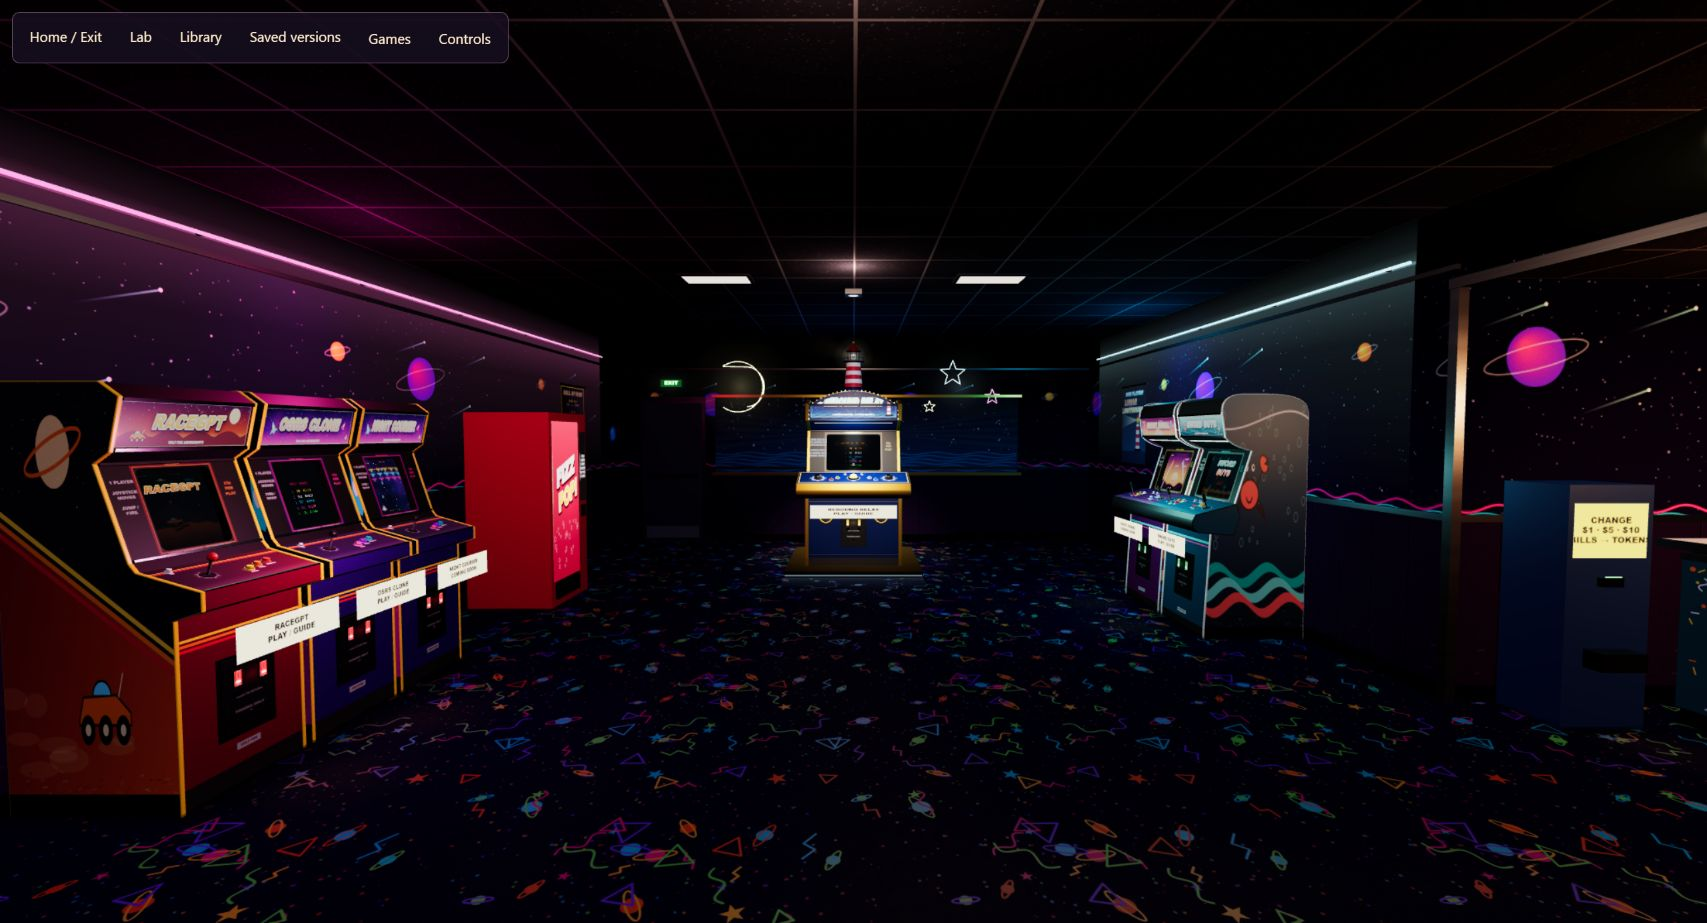
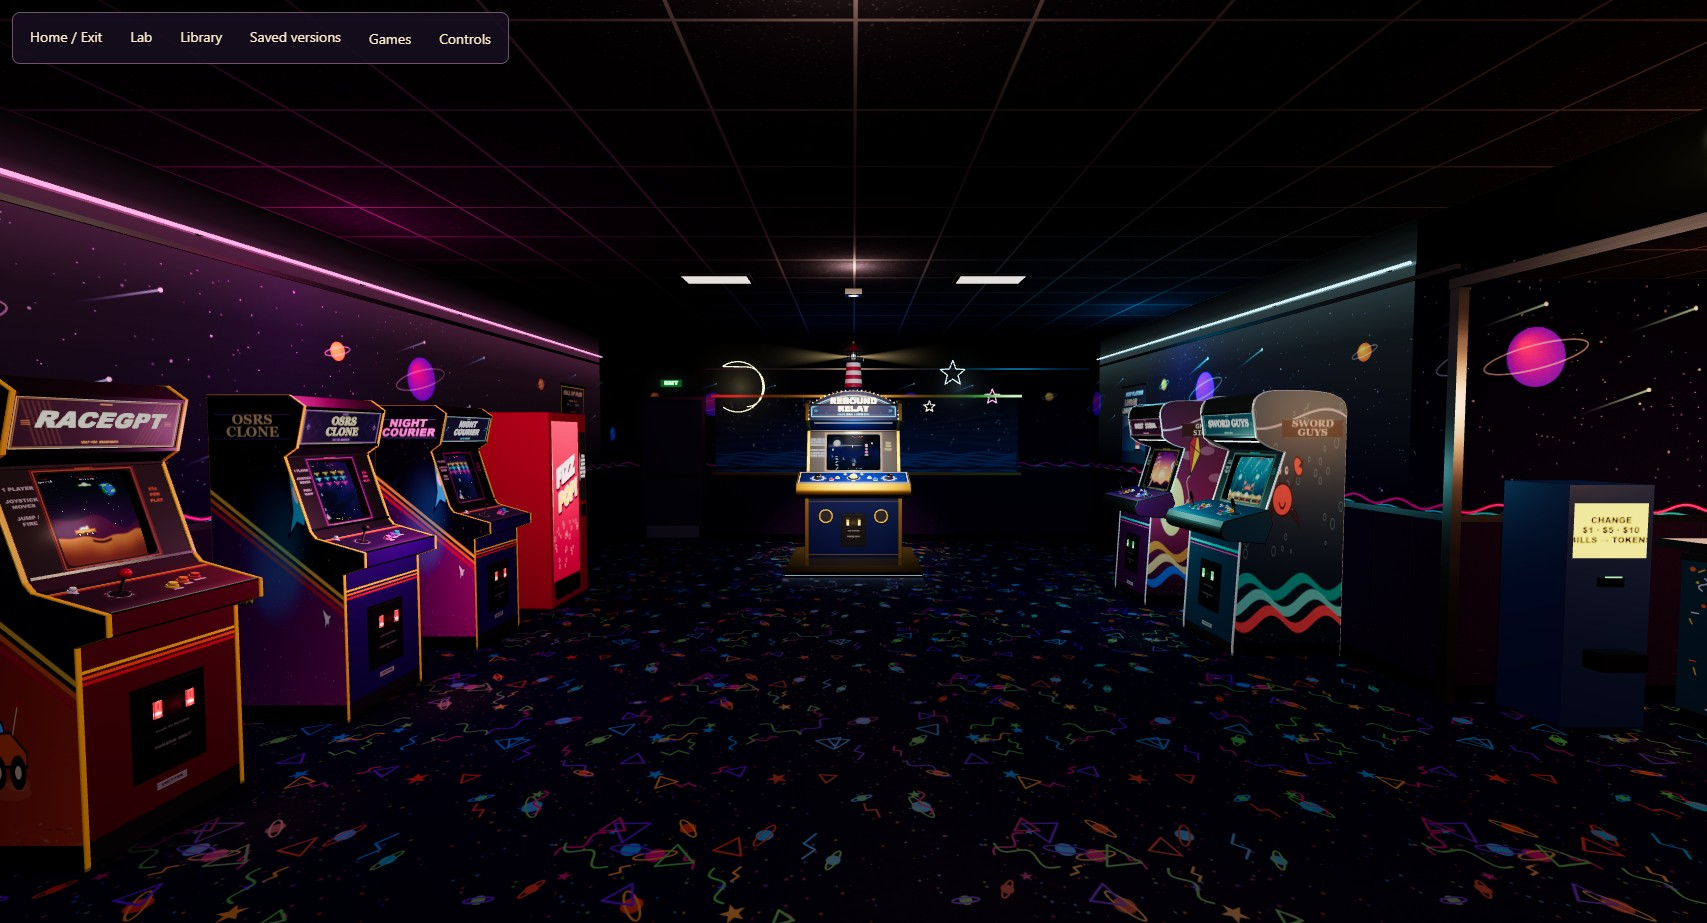
Refresh homepage previews for published Arcade and Library

diff --git a/docs/room-handoff.md b/docs/room-handoff.md
@@ -1,10 +1,16 @@
 # Entry preview handoff v1
 
 The homepage uses real, unmodified default entry screenshots, captured on
-2026-10-09 at 1707 x 923. Arcade and Library retain their published v1 captures.
-The Lab v2 replacement is an owner-reviewed isolated draft capture from Lab
-commit `e821df05d19e82cb46ad5eabd7c8401cf040919b`; it is prepared, not yet published.
-All three include the rooms' visible host HUDs.
+2026-10-09 at 1707 x 923. Arcade and Library retain their v1 entry cameras, with
+owner-reviewed refreshes from Arcade PR48 at
+`461c5e7f917edb78854c3de8d38050a76bf4bbf0` and Library PR7 at
+`5f81273b17a47438bdda50e244c4dbf921b14216`. The already-published Lab v2 image
+remains the isolated draft capture from Lab source
+`e821df05d19e82cb46ad5eabd7c8401cf040919b` released in homepage PR67.
+The manifest preserves each owner's original capture-time provenance, including
+draft or publication-pending descriptions; these are not current release status.
+See `library-preview-refresh.md` for the Library capture evidence.
+All three include the rooms' visible entry UI.
 No room engines run on the homepage. Portrait previews are a center crop and
 cannot promise pixel-identical alignment with responsive destination cameras.
 
@@ -147,8 +153,12 @@ cover is removed. Do not mark ready at import or renderer construction.
 
 Camera framing must match the current viewport. These captures match a desktop
 aspect of 1707/923; resize/portrait uses a representative crop and a short fade,
-not a claim of perfect alignment. If a room's entry camera or HUD changes,
-replace its canonical capture and bump the camera/version contract together.
+not a claim of perfect alignment. If a room's entry camera or composition
+requires a new matching-entry contract, replace its capture and bump that room's
+camera revision together. Owner-reviewed image refreshes at the same pose and
+contract retain their camera revision and coordinate the replacement image with
+the matching room release. Do not change canonical bootstrap fingerprints merely
+to refresh image bytes.
 
 There is no browser-independent guarantee of uninterrupted pixels across two
 documents. The inline bootstrap prevents an unthemed destination paint once
@@ -182,10 +192,28 @@ owner-reviewed default frame at 1707 x 923, Chrome 154, NVIDIA RTX 5070 Ti, DPR 
 Deploy the image, entry metadata, homepage producer, canonical bootstrap and
 matching Lab inline/controller together. The prepared canonical Git blob is
[1 lines of base64/hex data omitted]
-commit `30eb1ebc5d42a47759c20ca1fec4ce7b56aa07de`. Before coordinated publication,
-pin the approved homepage patch commit in the Lab inline source comment and its
-fingerprint test. The prepared Lab source comment identifies the baseline plus
-prepared patch instead of claiming the patched source exists at the baseline
-commit. Publish the matching Lab consumer first, then the homepage producer,
-image and manifest; the brief mixed-version interval uses normal Lab entry.
-Arcade and Library remain on their existing v1 integrations throughout.
+commit `30eb1ebc5d42a47759c20ca1fec4ce7b56aa07de`. The published Lab consumer pins
+approved homepage source commit `39d91163736ed0242a3c381e87de401582c33b4b`.
+That source remains byte-identical in this Arcade/Library image-only refresh;
+retain the verified Lab pin and canonical fingerprint. Lab PR64 was published
+before homepage PR67 so the v2 producer and consumer match. Arcade and Library
+remain on their existing v1 integrations throughout.
+
+## Coordinated Arcade and Library image refreshes
+
+The Arcade JPEG is 270048 bytes, SHA256
[1 lines of base64/hex data omitted]
+The Library JPEG is 434951 bytes, SHA256
[1 lines of base64/hex data omitted]
+Both are exact owner-supplied captures from the reviewed commits above. Preserve
+the already-live Lab JPEG, Lab manifest record, theme, layout and all scripts.
+Publish this refresh only after both matching room deployments are live and
+their public assets are verified against their release source.
+
+Arcade and Library inline bootstraps retain v1 canonical source pinned to
+homepage commit `715d292a94ddda4f92eaf3c67b3f18edb073ed47`, Git blob
+`846960bd15c10cfb1bcf835173022bc42bcdbd19`. Those consumers accept the unchanged
+Arcade/Library v1 producer records. Do not repin them to a newer homepage commit
+whose canonical source has the Lab v2 map without explicitly copying and
+re-verifying that source. No consumer pin or canonical source change is needed
+for these two image refreshes.

diff --git a/docs/library-preview-refresh.md b/docs/library-preview-refresh.md
@@ -1,0 +1,32 @@
+# Prepared Library entrance refresh
+
+This image is a direct, unedited Playwright JPEG capture of the real built
+Library PR7 at `5f81273b17a47438bdda50e244c4dbf921b14216`, captured locally before publication. Merge this image refresh
+only after that exact approved Library runtime is deployed, so the homepage
+preview and destination represent the same room. If the runtime changes, capture
+the entrance again before publishing its preview.
+
+The default-entry-v1 framing is 1707 x 923, DPR 1, vertical FOV 70, near .05,
+far 2500, feet (3.4, 0, 4.3), camera (3.4, 1.62, 4.3), Euler YXZ yaw .78 and
+pitch .1, zero velocity. Visible Controls and crosshair HUDs remain; the default
+hint bar stays hidden. No crop, compositing, enhancement or CSS hiding was applied.
+JPEG quality was 92. Byte size is 434951; SHA256 is
[1 lines of base64/hex data omitted]
+
+The local rendered check observed the actual head bootstrap consume the incoming
+token, retain the image until the room had drawn 59 calls at the matching camera,
+then remove the cover after its normal short fade. No capture or dialog was
+restored. This verifies the destination bridge with an explicit same-origin test
+token. Homepage mock-DOM tests verify its source-side write/alignment contract;
+a full published cross-document homepage visit has not been tested for this draft.
+
+The Library owner's supplied patch changes only its image and entry metadata,
+alongside this provenance documentation. The combined homepage release also
+adopts Arcade's separately approved capture. Lab image bytes and its manifest
+entry, homepage theme/layout/scripts, and the canonical handoff bridge remain
+unchanged. The temporary localhost capture server has been closed. Manifest
+draft/publication-pending fields preserve capture-time provenance.
+
+The previous Library JPEG was 237295 bytes; this image is
+197,656 bytes larger. This is an image download cost,
+not a homepage 3D runtime: no room engine is added to the homepage.
